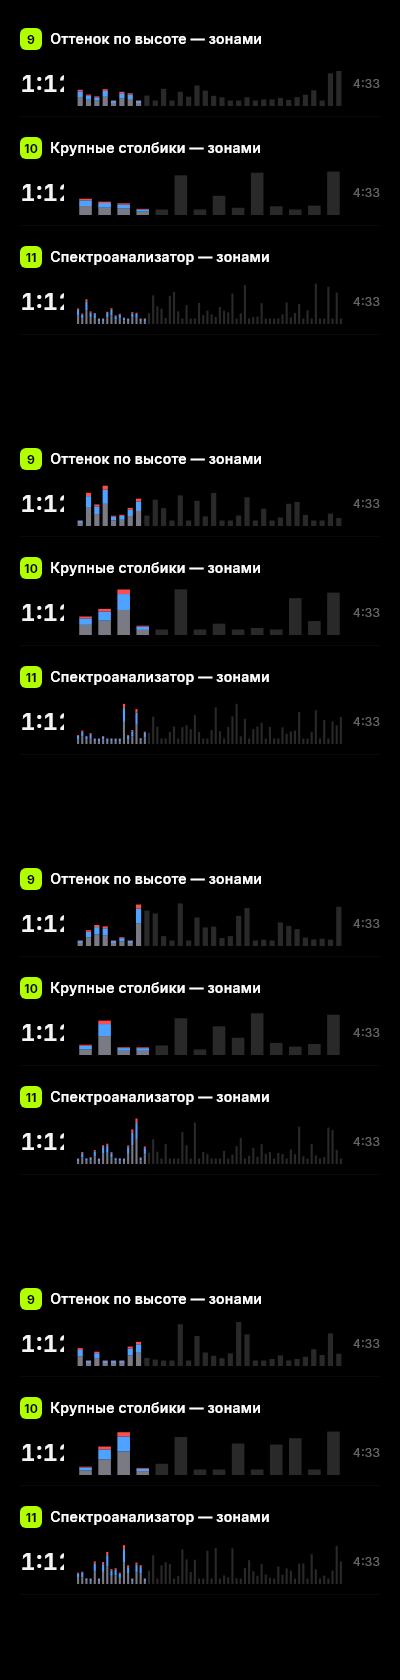
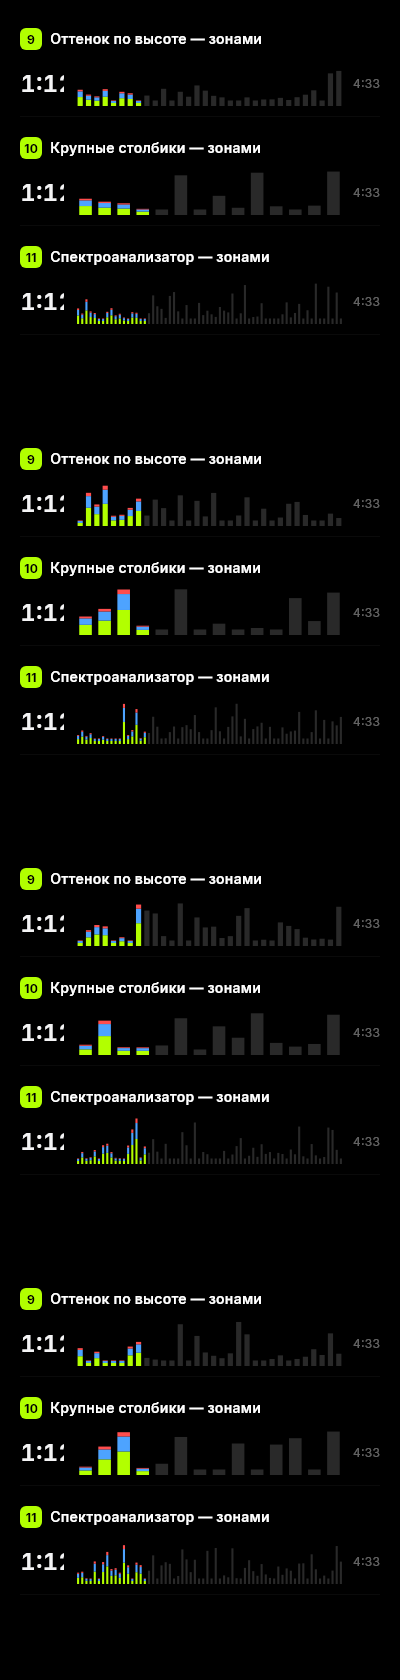
поток: эскизы эквалайзера — лайм вместо серого (Alex TG, голосовое)
«Вместо серого давай лаймовый сделаем, это наш дефолтный цвет» — тихая
зона VU-метра (варианты 6-11) теперь лайм→синий→красный вместо
серый→синий→красный. Пересобраны статичная картинка и видео-анимация.

diff --git a/apps/mobile/test/equalizer_variants_shot.dart b/apps/mobile/test/equalizer_variants_shot.dart
@@ -123,12 +123,11 @@ void _spectrum(Canvas c, Size s) {
   }
 }
 
-/// Цвет по громкости столбика — классический VU-метр: тихо — серый,
-/// средне — синий, громко (высокий столбик) — красный. Alex TG 23.09.2026
-/// (голосовое): «книзу серый... к верху... самая громкая — красная, а
-/// промежуточная где-то синий, как классический эквалайзер в Винампе».
+/// Цвет по громкости столбика — классический VU-метр: тихо — лайм (Alex TG
+/// 23.09.2026 уточнил голосовым: «вместо серого давай лаймовый, это наш
+/// дефолтный цвет»), средне — синий, громко (высокий столбик) — красный.
 Color _vuColor(double v) {
-  const grey = Color(0xFF7A7A85);
+  const grey = Afisha.lime;
   const blue = Color(0xFF4DA3FF);
   const red = Color(0xFFFF4D4D);
   return v < 0.5 ? Color.lerp(grey, blue, v / 0.5)! : Color.lerp(blue, red, (v - 0.5) / 0.5)!;
@@ -178,7 +177,9 @@ void _spectrumVu(Canvas c, Size s) {
 // на старом аппаратном эквалайзере/VU-метре — красная зона видна только у
 // самых высоких столбиков. Alex TG 23.09.2026 (голосовое): «столбик сам
 // определял, где тихо, где средне, где громко — и делился по цвету».
-const _segGrey = Color(0xFF7A7A85);
+// Было серым — Alex TG 23.09.2026 (голосовое): «вместо серого лаймовый,
+// это наш дефолтный цвет».
+const _segGrey = Afisha.lime;
 const _segBlue = Color(0xFF4DA3FF);
 const _segRed = Color(0xFFFF4D4D);
 // Доли ВЫСОТЫ САМОГО СТОЛБИКА, не всей полосы — серая зона самая широкая,

diff --git a/apps/mobile/test/equalizer_animation_shot.dart b/apps/mobile/test/equalizer_animation_shot.dart
@@ -31,7 +31,9 @@ const _digitStyle = TextStyle(
   fontFeatures: [FontFeature.tabularFigures()],
 );
 
-const _segGrey = Color(0xFF7A7A85);
+// Было серым — Alex TG 23.09.2026 (голосовое): «вместо серого лаймовый,
+// это наш дефолтный цвет».
+const _segGrey = Afisha.lime;
 const _segBlue = Color(0xFF4DA3FF);
 const _segRed = Color(0xFFFF4D4D);
 const _segGreyFrac = 0.55;
